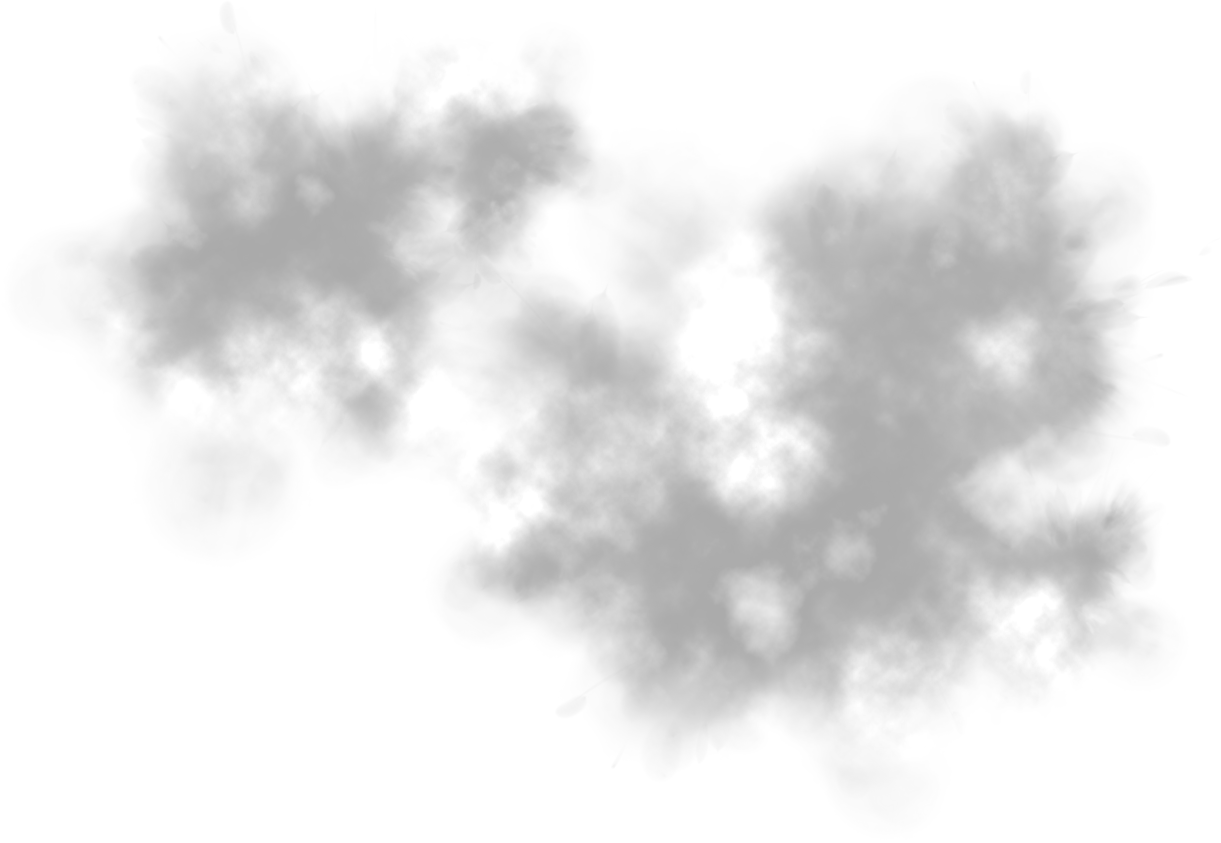
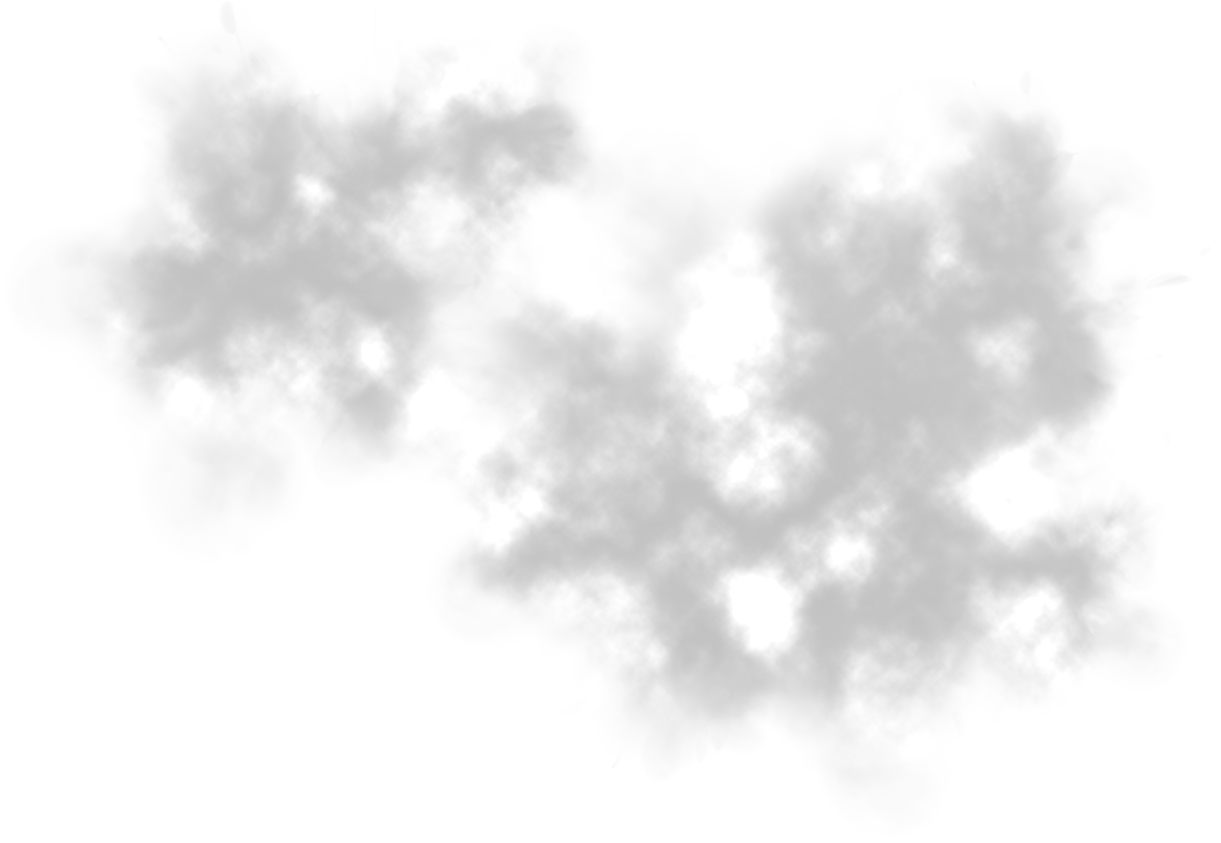
LightClouds

diff --git a/stylesheet.css b/stylesheet.css
@@ -126,10 +126,10 @@ Sizeable Icons
 .zoom5 .CloudType1 {opacity: 0.3;}
 .zoom6 .CloudType1 {opacity: 0.2;}
 
-.CloudType2 {width:458px; height:427px; opacity: 0.3; /*background-color: blue;*/ pointer-events: none !important;}
-.zoom3 .CloudType2 {opacity: 0.3;}
-.zoom4 .CloudType2 {opacity: 0.3;}
-.zoom5 .CloudType2 {opacity: 0.4;}
+.CloudType2 {width:458px; height:427px; opacity: 0.1; /*background-color: blue;*/ pointer-events: none !important;}
+.zoom3 .CloudType2 {opacity: 0.1;}
+.zoom4 .CloudType2 {opacity: 0.2;}
+.zoom5 .CloudType2 {opacity: 0.3;}
 .zoom6 .CloudType2 {opacity: 0.4;}
 
 .CloudType3 {width:672px; height:540px; opacity: 0.2; /*background-color: blue;*/ pointer-events: none !important;}
